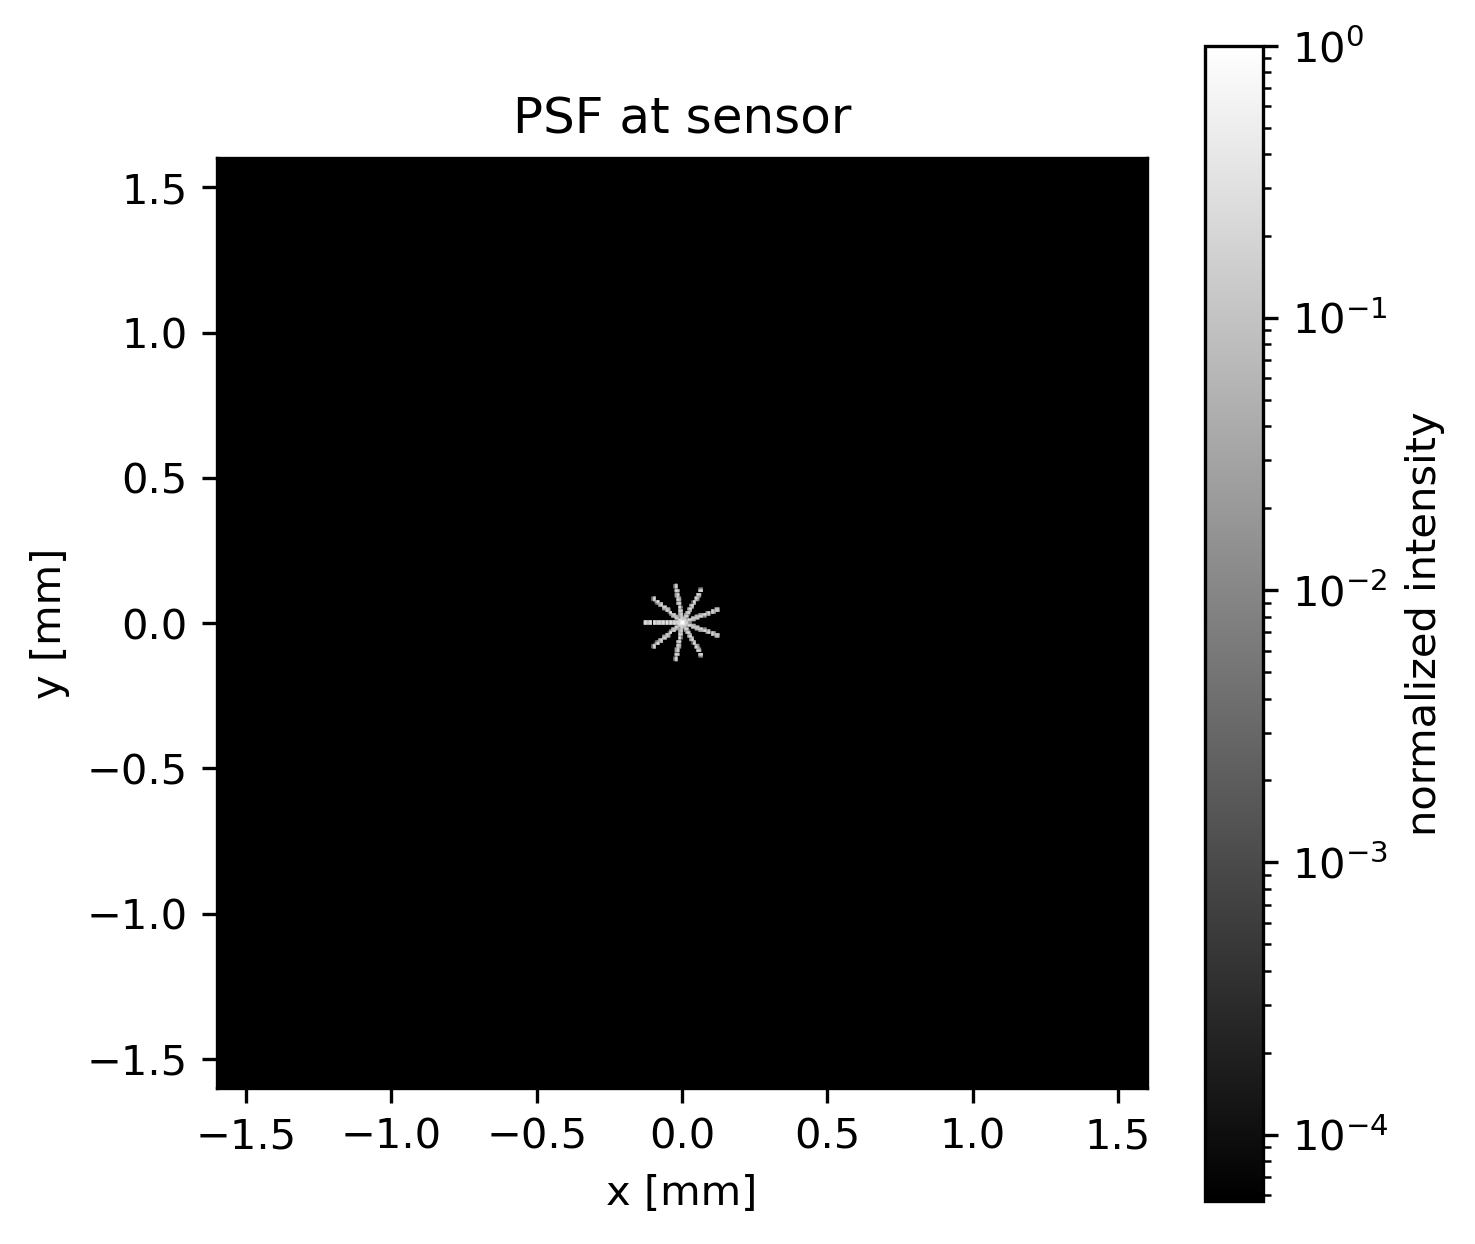
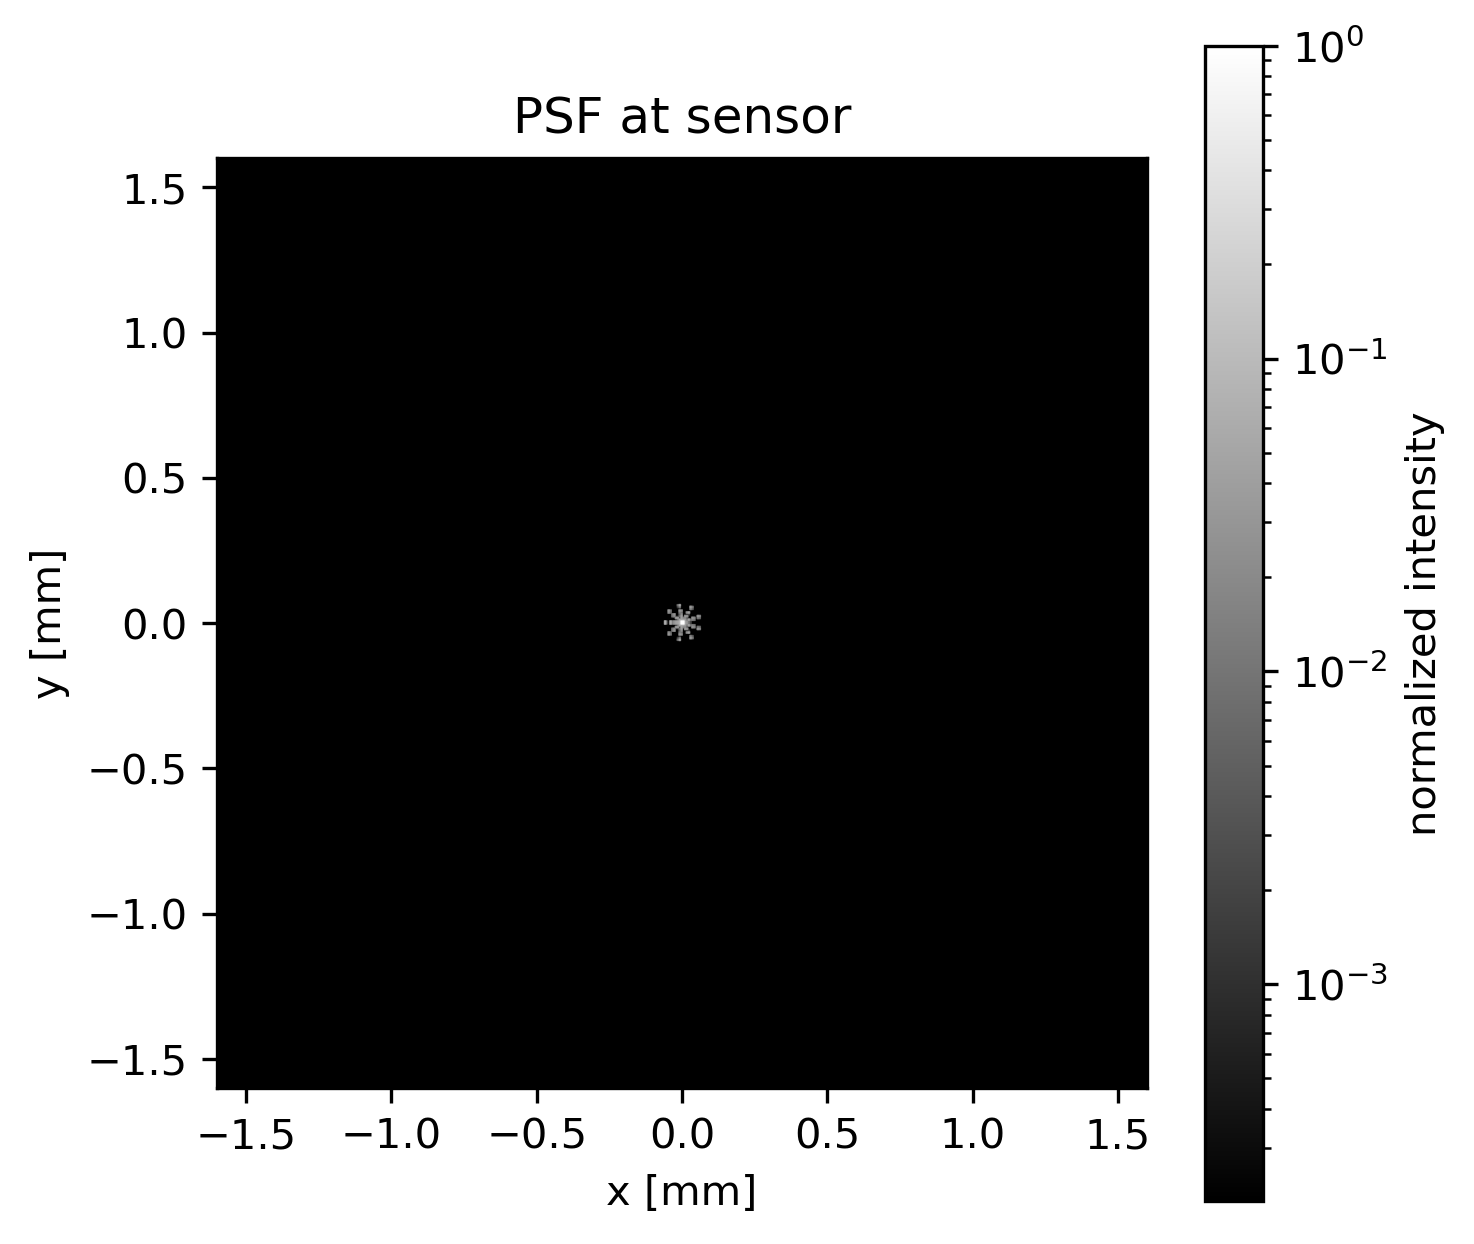
update results for N sweep change to use larger aperture

diff --git a/main.py b/main.py
@@ -97,7 +97,7 @@ def run_sweep_N(args) ->None:
     device = torch.device("cuda" if (args.cuda and torch.cuda.is_available()) else "cpu")
     pixel_size_mm = float(args.h) / float(args.M[1])
     lens = build_lens(
-        R1=args.R1, T=args.T, R2=args.R2, LD=args.LD, OD=args.OD, D2=args.D2+2, # off focus to see the change of sampling effect
+        R1=args.R1, T=args.T, R2=args.R2, LD=args.LD, OD=args.OD*2, D2=args.D2, # use larger aperture to see the change of sampling effect
         pixel_size_mm=pixel_size_mm, film_M=args.M, device=device,
         stop_after_s2_mm=args.stop_after_s2_mm, add_explicit_stop=(not args.no_stop),
     )
